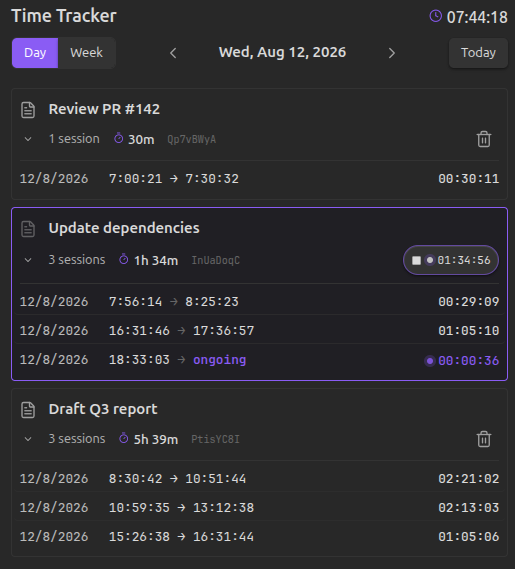
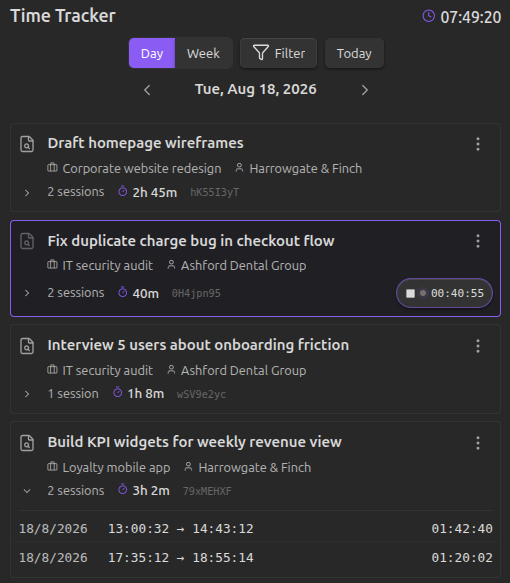
Release 0.0.27

diff --git a/README.md b/README.md
@@ -17,6 +17,7 @@ A local-first Obsidian plugin for **tracking time directly on the checkboxes in 
 
 - [How it works](#how-it-works)
 - [Features](#features)
+- [Projects & clients](#projects--clients)
 - [Commands](#commands)
 - [Privacy & architecture](#privacy--architecture)
 - [Export](#export)
@@ -79,10 +80,27 @@ Every tracked task gets a short, unique identifier stored inline with the task t
 - **Fits your task format** — works with Tasks-style checkboxes (`- [ ]`, `* [ ]`, `+ [ ]`), numbered lists, and nested tasks.
 - **Plays nicely with Dataview, but never depends on it** — an optional, subtle-by-default identifier keeps your history linked to each task and makes it queryable, without cluttering your notes.
 - **A clear history** — a dedicated panel with per-task cards, day/week navigation, and inline editing or deletion of sessions.
+- **Organize with projects & clients** — group your tasks under projects (each with an optional client) from Settings, then filter the History panel down to a single one at a time.
 - **Export on your terms** — generate a generic CSV or one formatted for Toggl's official importer. You choose when to export — never automatic, never in the background.
 - **Zero external API calls** — the plugin never connects to any third-party service, at any point in its operation. Your time data stays in your vault.
 
 <img src="docs/images/history-panel.png" alt="The History panel, showing a couple of expanded task cards" width="515" style="border-radius:12px;margin:2rem 0;">
+
+## Projects & clients
+
+Group your tasks by project, and optionally by client, right from Settings.
+
+<img src="docs/images/project-and-clients-settings.png" alt="Settings → Projects & clients section" width="515" style="border-radius:12px;margin:2rem 0;">
+
+Add projects one by one, or paste a whole list at once (`Project; Client` per line) if you're migrating from somewhere else.
+
+Assign a project to any tracked task from its **Edit task** dialog — pick one from a searchable list, each row showing the project and its client if it has one.
+
+<img src="docs/images/project-picker-modal.png" alt="Project picker inside Edit task" width="515" style="border-radius:12px;margin:2rem 0;">
+
+Once you're tracking by project, filter the History panel down to a single one at a time with the **Filter** button in its header. The filter resets every time you reopen Obsidian, so it's never a setting you forget you left on.
+
+<img src="docs/images/filter-in-panel.png" alt="Filter button + popover in the History panel header" width="515" style="border-radius:12px;margin:2rem 0;">
 
 ## Commands
 
@@ -107,6 +125,8 @@ Two export formats are available whenever you need them:
 
 - **Generic CSV** — opens cleanly in any spreadsheet tool.
 - **Toggl-formatted CSV** — matches the exact columns expected by Toggl's official importer.
+
+Generic CSV exports also include the project and client assigned to each task, if any — ready to use for per-client reporting. (The Toggl-formatted CSV doesn't include these columns.)
 
 *More export formats (Clockify, Harvest, and others) are planned.*
 

diff --git a/CHANGELOG.md b/CHANGELOG.md
@@ -6,6 +6,8 @@ The format is based on [Keep a Changelog](https://keepachangelog.com/en/1.1.0/).
 
 ## [Unreleased]
 
+## [0.0.27] - 2026-08-18
+
 ### Added
 
 - Settings: a new "Projects & clients" section lets you maintain a list of projects (with an optional client) — add them one by one or paste a whole list at once (`Project; Client` per line). This is the foundation for future export adapters (e.g. Clockify) that expect `Project`/`Client` columns, which aren't wired up yet.
